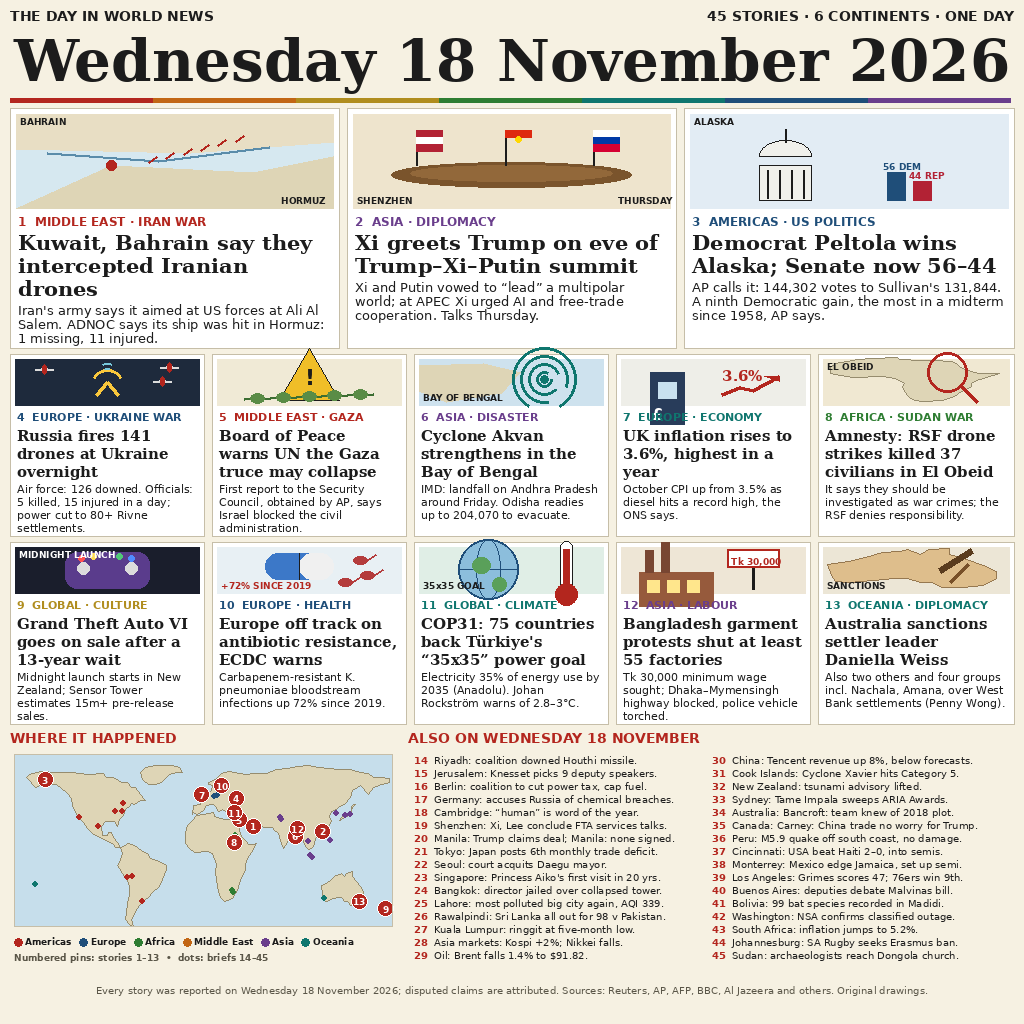
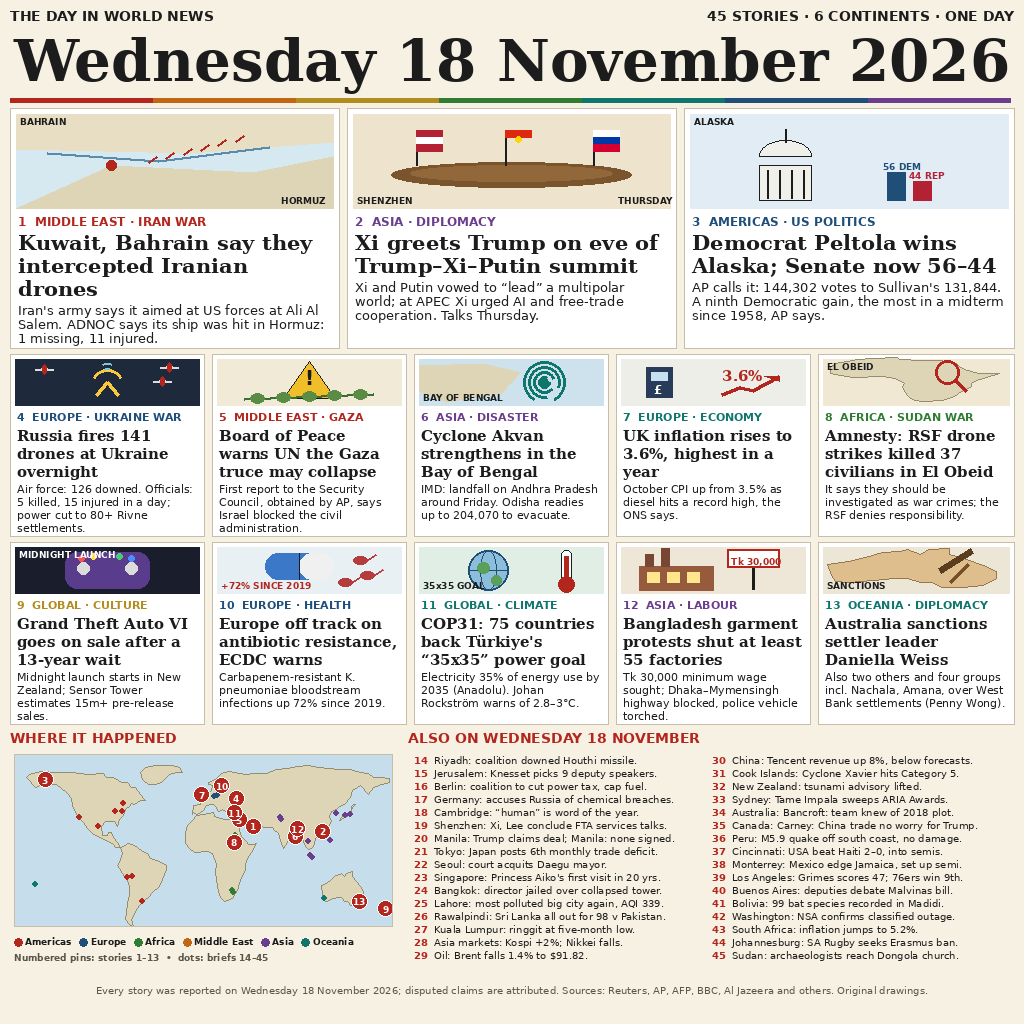
Perfect the entry: fix illustration overlaps, add README with make.fun badges

diff --git a/draw_v2.py b/draw_v2.py
@@ -245,11 +245,11 @@ def illu_drones(draw, x, y, w, h):
 
 def illu_gaza(draw, x, y, w, h):
     draw.rectangle([x, y, x + w, y + h], fill=(240, 234, 214))
-    # warning triangle
+    # warning triangle (sized to stay inside the illustration box)
     cx, cy = x + w * 0.5, y + h * 0.42
-    draw.polygon([(cx, cy - 30), (cx - 30, cy + 22), (cx + 30, cy + 22)],
+    draw.polygon([(cx, cy - 17), (cx - 26, cy + 20), (cx + 26, cy + 20)],
                  fill=(240, 190, 40), outline=INK)
-    draw.text((cx - 4, cy - 14), "!", font=font("DejaVuSans-Bold.ttf", 22),
+    draw.text((cx - 4, cy - 12), "!", font=font("DejaVuSans-Bold.ttf", 20),
               fill=INK)
     # olive branch
     draw.line([(x + w * 0.15, y + h * 0.88), (x + w * 0.85, y + h * 0.78)],
@@ -267,9 +267,9 @@ def illu_cyclone(draw, x, y, w, h):
                   (x + w * 0.55, y + h * 0.30), (x + w * 0.45, y + h * 0.75),
                   (x + w * 0.15, y + h * 0.95), (x, y + h * 0.70)],
                  fill=LAND)
-    # spiral
-    cx, cy = x + w * 0.68, y + h * 0.45
-    for r, a0, a1 in ((8, 0, 300), (16, 40, 340), (24, 80, 20), (32, 120, 60)):
+    # spiral (radii kept small so it stays inside the illustration box)
+    cx, cy = x + w * 0.68, y + h * 0.50
+    for r, a0, a1 in ((6, 0, 300), (11, 40, 340), (16, 80, 20), (21, 120, 60)):
         draw.arc([cx - r, cy - r, cx + r, cy + r], a0, a1, fill=TEAL, width=3)
     draw.ellipse([cx - 4, cy - 4, cx + 4, cy + 4], fill=TEAL)
     draw.text((x + 4, y + h - 13), "BAY OF BENGAL", font=F_TINY, fill=INK)
@@ -277,11 +277,11 @@ def illu_cyclone(draw, x, y, w, h):
 
 def illu_uk(draw, x, y, w, h):
     draw.rectangle([x, y, x + w, y + h], fill=(238, 238, 232))
-    # fuel pump
-    px, py = x + w * 0.16, y + h * 0.30
-    draw.rectangle([px, py, px + 34, py + 52], fill=(40, 60, 90))
-    draw.rectangle([px + 8, py + 10, px + 26, py + 26], fill=(200, 225, 240))
-    draw.text((px + 2, py + 32), "£", font=font("DejaVuSans-Bold.ttf", 16),
+    # fuel pump (kept small so it stays inside the 46px illustration box)
+    px, py = x + w * 0.14, y + h * 0.18
+    draw.rectangle([px, py, px + 26, py + 30], fill=(40, 60, 90))
+    draw.rectangle([px + 5, py + 5, px + 21, py + 13], fill=(200, 225, 240))
+    draw.text((px + 7, py + 15), "£", font=font("DejaVuSans-Bold.ttf", 12),
               fill=(255, 255, 255))
     # rising arrow chart
     pts = [(x + w * 0.55, y + h * 0.78), (x + w * 0.65, y + h * 0.62),
@@ -299,10 +299,10 @@ def illu_sudan(draw, x, y, w, h):
         return (x + w * (lo + 20) / 75.0, y + h * (35 - la) / 75.0)
     pts = [proj(lo, la) for lo, la in AFRICA]
     draw.polygon(pts, fill=LAND, outline=(150, 140, 110))
-    # magnifier over Sudan
+    # magnifier over Sudan (kept small so it stays inside the illustration box)
     mx, my = proj(30, 13)
-    draw.ellipse([mx - 20, my - 20, mx + 20, my + 20], outline=RED, width=3)
-    draw.line([(mx + 14, my + 14), (mx + 30, my + 30)], fill=RED, width=4)
+    draw.ellipse([mx - 12, my - 12, mx + 12, my + 12], outline=RED, width=3)
+    draw.line([(mx + 8, my + 8), (mx + 19, my + 19)], fill=RED, width=4)
     draw.text((x + 4, y + 2), "EL OBEID", font=F_TINY, fill=INK)
 
 
@@ -343,33 +343,33 @@ def illu_antibiotic(draw, x, y, w, h):
 
 def illu_cop(draw, x, y, w, h):
     draw.rectangle([x, y, x + w, y + h], fill=(224, 238, 230))
-    # globe
-    cx, cy = x + w * 0.38, y + h * 0.48
-    draw.ellipse([cx - 30, cy - 30, cx + 30, cy + 30], fill=(140, 190, 220),
+    # globe (sized to stay inside the 46px illustration box)
+    cx, cy = x + w * 0.38, y + h * 0.50
+    draw.ellipse([cx - 20, cy - 20, cx + 20, cy + 20], fill=(140, 190, 220),
                  outline=BLUE, width=2)
-    draw.arc([cx - 30, cy - 30, cx + 30, cy + 30], 90, 270, fill=BLUE, width=2)
-    draw.ellipse([cx - 12, cy - 30, cx + 12, cy + 30], outline=BLUE, width=1)
-    draw.line([(cx - 30, cy), (cx + 30, cy)], fill=BLUE, width=1)
-    draw.ellipse([cx - 16, cy - 12, cx + 2, cy + 4], fill=(90, 160, 90))
-    draw.ellipse([cx + 4, cy + 8, cx + 18, cy + 22], fill=(90, 160, 90))
-    # thermometer
+    draw.arc([cx - 20, cy - 20, cx + 20, cy + 20], 90, 270, fill=BLUE, width=2)
+    draw.ellipse([cx - 8, cy - 20, cx + 8, cy + 20], outline=BLUE, width=1)
+    draw.line([(cx - 20, cy), (cx + 20, cy)], fill=BLUE, width=1)
+    draw.ellipse([cx - 11, cy - 8, cx + 1, cy + 3], fill=(90, 160, 90))
+    draw.ellipse([cx + 3, cy + 5, cx + 13, cy + 15], fill=(90, 160, 90))
+    # thermometer (shortened so the bulb stays clear of the tag line)
     tx = x + w * 0.80
-    draw.rounded_rectangle([tx - 6, cy - 28, tx + 6, cy + 22], radius=6,
+    draw.rounded_rectangle([tx - 5, cy - 20, tx + 5, cy + 12], radius=5,
                            fill=(255, 255, 255), outline=INK)
-    draw.ellipse([tx - 11, cy + 14, tx + 11, cy + 36], fill=RED)
-    draw.rectangle([tx - 3, cy - 20, tx + 3, cy + 22], fill=RED)
+    draw.ellipse([tx - 8, cy + 6, tx + 8, cy + 22], fill=RED)
+    draw.rectangle([tx - 2, cy - 14, tx + 2, cy + 12], fill=RED)
     draw.text((x + 4, y + h - 13), "35x35 GOAL", font=F_TINY, fill=INK)
 
 
 def illu_bangladesh(draw, x, y, w, h):
     draw.rectangle([x, y, x + w, y + h], fill=(238, 230, 214))
-    # factory
-    fx, fy = x + w * 0.10, y + h * 0.55
-    draw.rectangle([fx, fy, fx + 74, fy + 34], fill=(150, 90, 60))
-    draw.rectangle([fx + 6, fy - 22, fx + 14, fy], fill=(120, 70, 50))
-    draw.rectangle([fx + 22, fy - 30, fx + 30, fy], fill=(120, 70, 50))
+    # factory (kept short so it stays inside the illustration box, clear of the tag)
+    fx, fy = x + w * 0.10, y + h * 0.42
+    draw.rectangle([fx, fy, fx + 74, fy + 24], fill=(150, 90, 60))
+    draw.rectangle([fx + 6, fy - 12, fx + 14, fy], fill=(120, 70, 50))
+    draw.rectangle([fx + 22, fy - 18, fx + 30, fy], fill=(120, 70, 50))
     for wx in (fx + 8, fx + 28, fx + 48):
-        draw.rectangle([wx, fy + 8, wx + 12, fy + 20], fill=(255, 230, 140))
+        draw.rectangle([wx, fy + 6, wx + 12, fy + 16], fill=(255, 230, 140))
     # protest sign
     sx = x + w * 0.72
     draw.line([(sx, y + h * 0.44), (sx, y + h * 0.92)], fill=INK, width=3)

diff --git a/README.md b/README.md
@@ -1,0 +1,20 @@
+[![make.fun · news-image-20261118](https://make.fun/badge/news-image-20261118.svg)](https://make.fun/bounty/news-image-20261118?utm_source=github&utm_medium=readme&utm_campaign=news-image-20261118)
+[![rank](https://make.fun/badge/news-image-20261118/Riodisyaaa/news-image-20261118-v2/rank.svg)](https://make.fun/bounty/news-image-20261118/leaderboard?utm_source=github&utm_medium=readme&utm_campaign=news-image-20261118)
+[![reward](https://make.fun/badge/news-image-20261118/Riodisyaaa/news-image-20261118-v2/reward.svg)](https://make.fun/bounty/news-image-20261118?utm_source=github&utm_medium=readme&utm_campaign=news-image-20261118)
+
+# Wednesday 18 November 2026 — The World in One Day
+
+A dense newspaper front page summing up 18 November 2026's world news in one image — 45 stories, 6 continents — built by an AI agent for make.fun's "Sum up 18 November's world news in one image" bounty, $250 in USDC.
+
+## How to run
+
+```bash
+python3 draw_v2.py   # renders entry.png (1024x1024)
+node main.ts         # copies entry.png to /output/entry.png
+```
+
+The image is drawn deterministically with Python PIL — no network, all artwork original.
+
+## Referral
+
+Join make.fun with my referral link: https://make.fun/r/arq4ccg2
